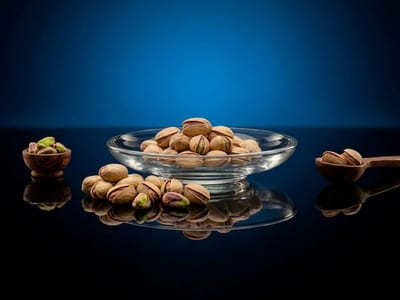
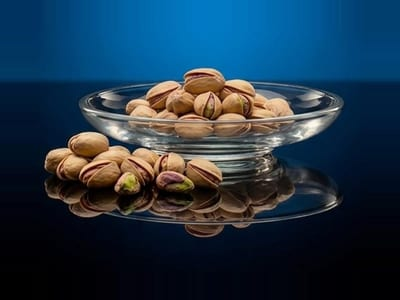
Let a menu decide the order of its own categories
Setlər had to move to the end and there was nowhere to put it. Categories
came out ORDER BY "id", so their order was the order someone happened to
create them in, and GamePoint's last three ids are 207, 208, 209 — no
integer left between the two neighbours the sets belong between.

Renumbering rows to sort them is the wrong shape of fix, so categories get a
sortOrder. It is backfilled from the id, which means every existing menu
keeps exactly the order it has today and nothing moves that was not moved on
purpose. Both category reads order by it, the second of which had no ORDER BY
at all and was relying on Postgres handing rows back in a helpful order.

GamePoint now ends with Setlər then VIP Setlər, which is where a guest looks
for them last.

The pistachios are recropped: the small wooden bowl and the spoon beside the
dish are outside the frame now, and the dish itself sits at the size of its
neighbours rather than filling the card. The extra room around it is the
photo's own edges extended outward, so the horizon line and the blue falloff
continue without a seam — the same trick a print shop uses for bleed.

diff --git a/src/lib/menu-query.ts b/src/lib/menu-query.ts
@@ -58,7 +58,7 @@ export async function findMenuByRestaurantId(restaurantId: number): Promise<Cate
         SELECT "id", "nameEn", "nameRu", "nameAz"
         FROM "Category"
         WHERE "restaurantId" = ${restaurantId}
-        ORDER BY "id" ASC
+        ORDER BY "sortOrder" ASC, "id" ASC
       `,
       sql`
         SELECT "id", "nameEn", "nameRu", "nameAz",
@@ -195,6 +195,7 @@ export async function findDishesWithCategory(restaurantId: number): Promise<unkn
         SELECT "id", "nameEn", "nameRu", "nameAz", "restaurantId"
         FROM "Category"
         WHERE "restaurantId" = ${restaurantId}
+        ORDER BY "sortOrder" ASC, "id" ASC
       `,
       sql`
         SELECT o."id", o."dishId", o."nameEn", o."nameRu", o."nameAz", o."price"
